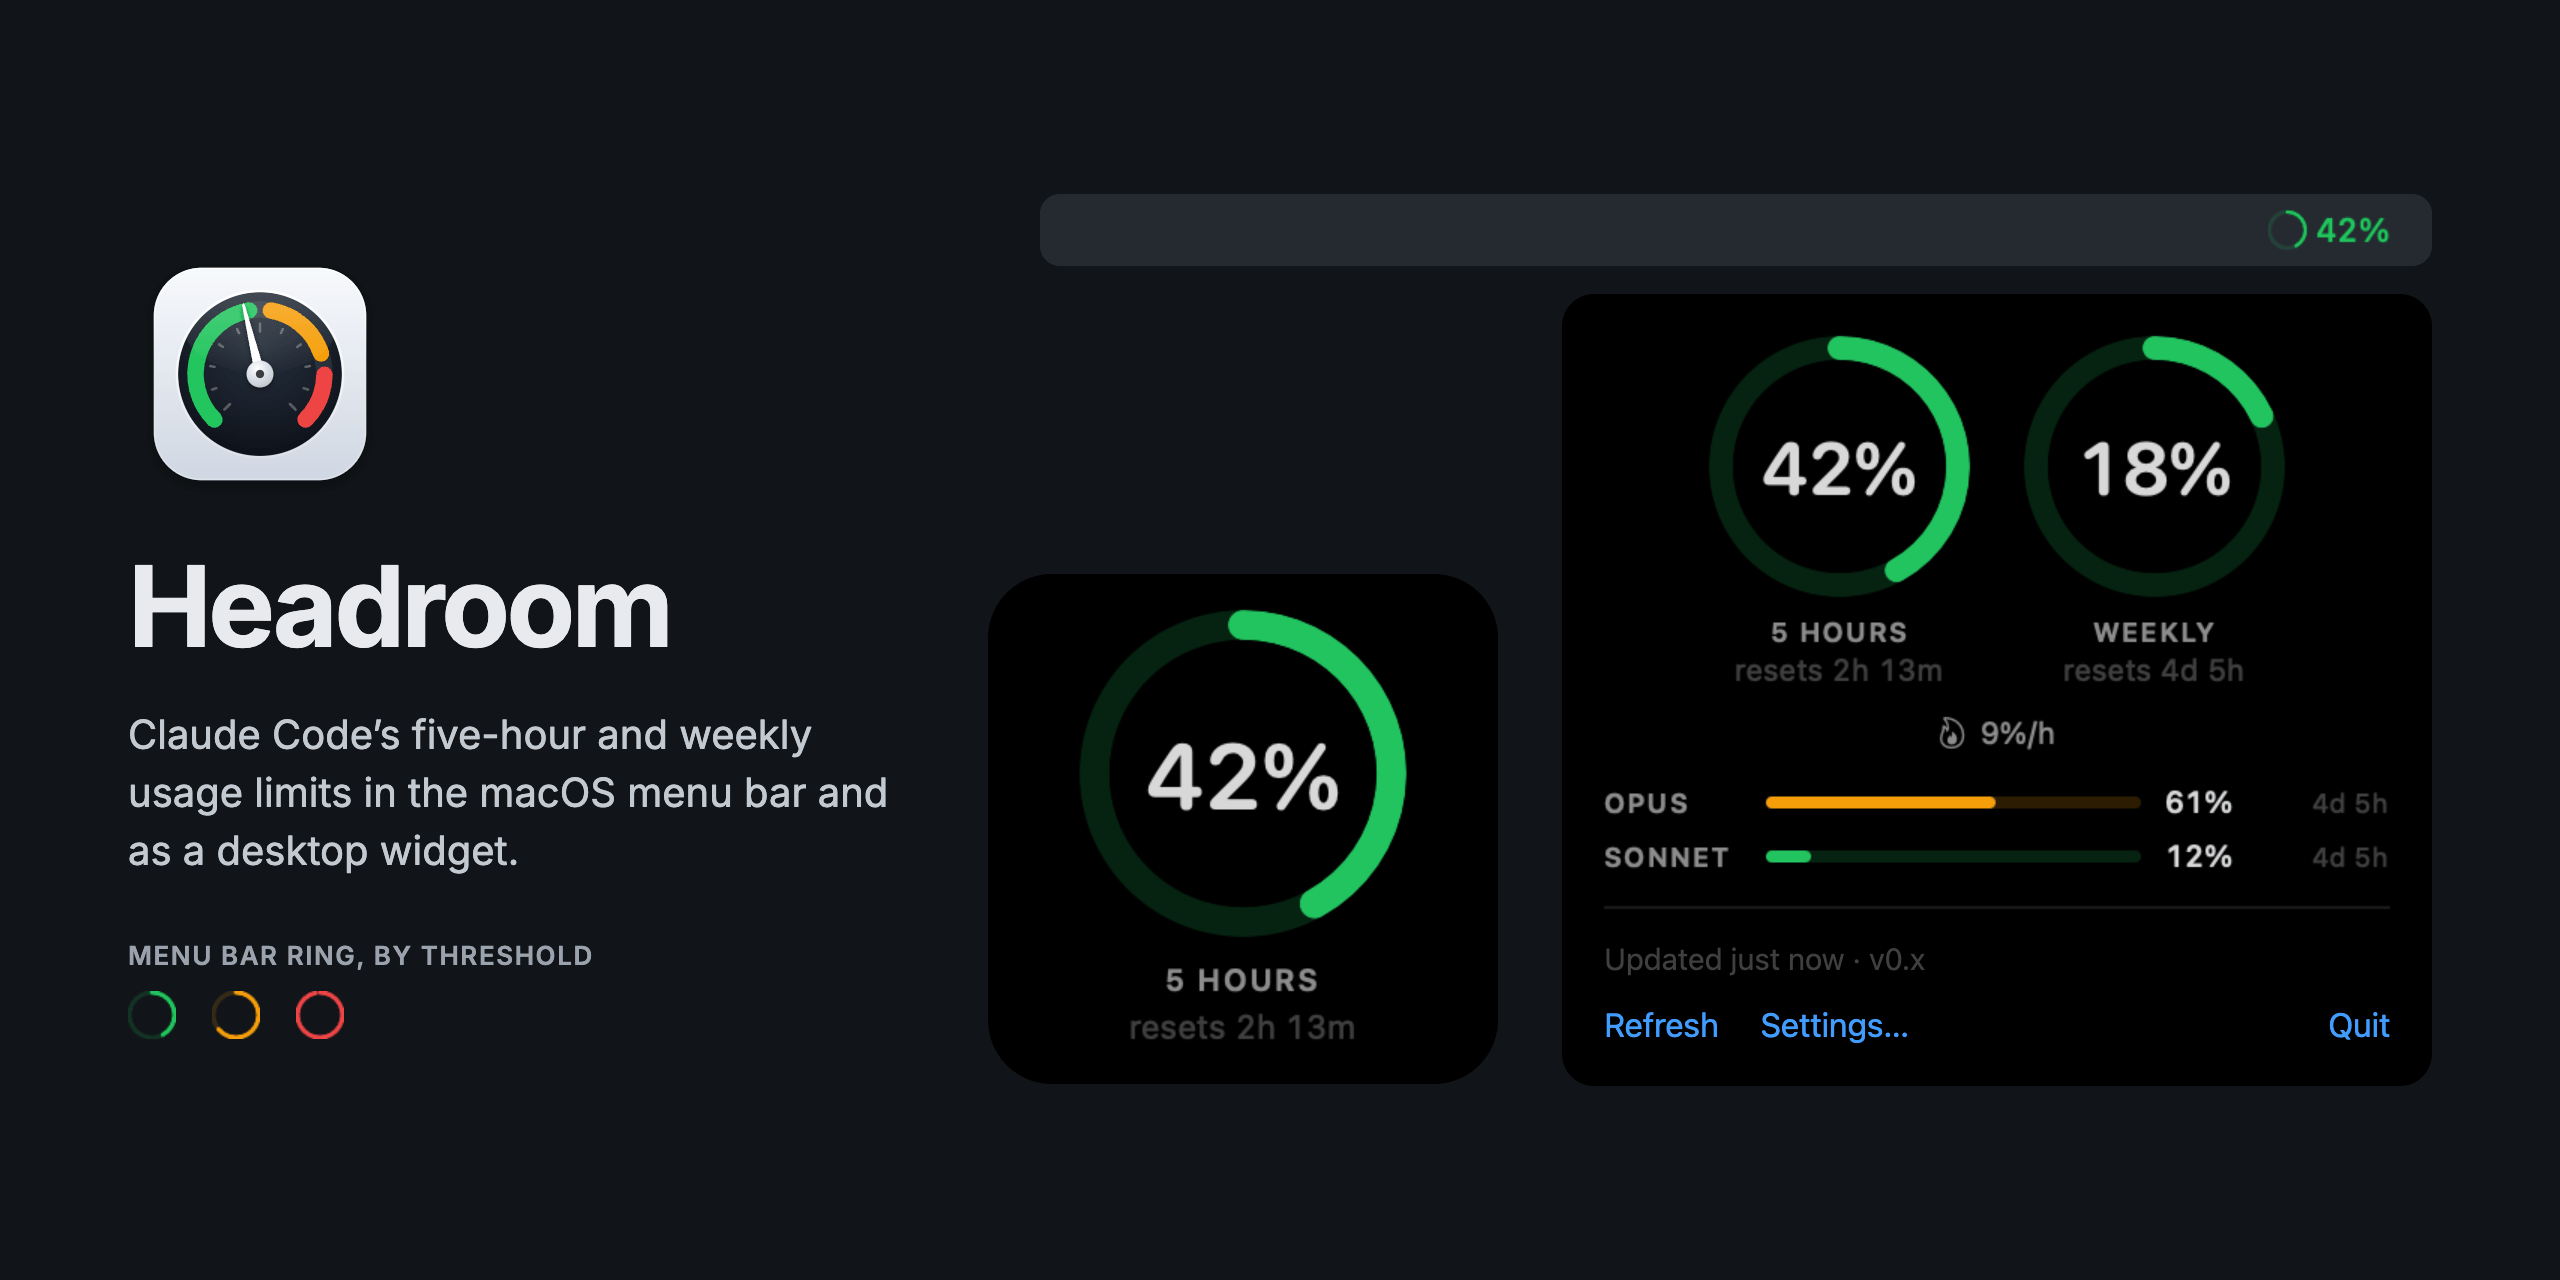
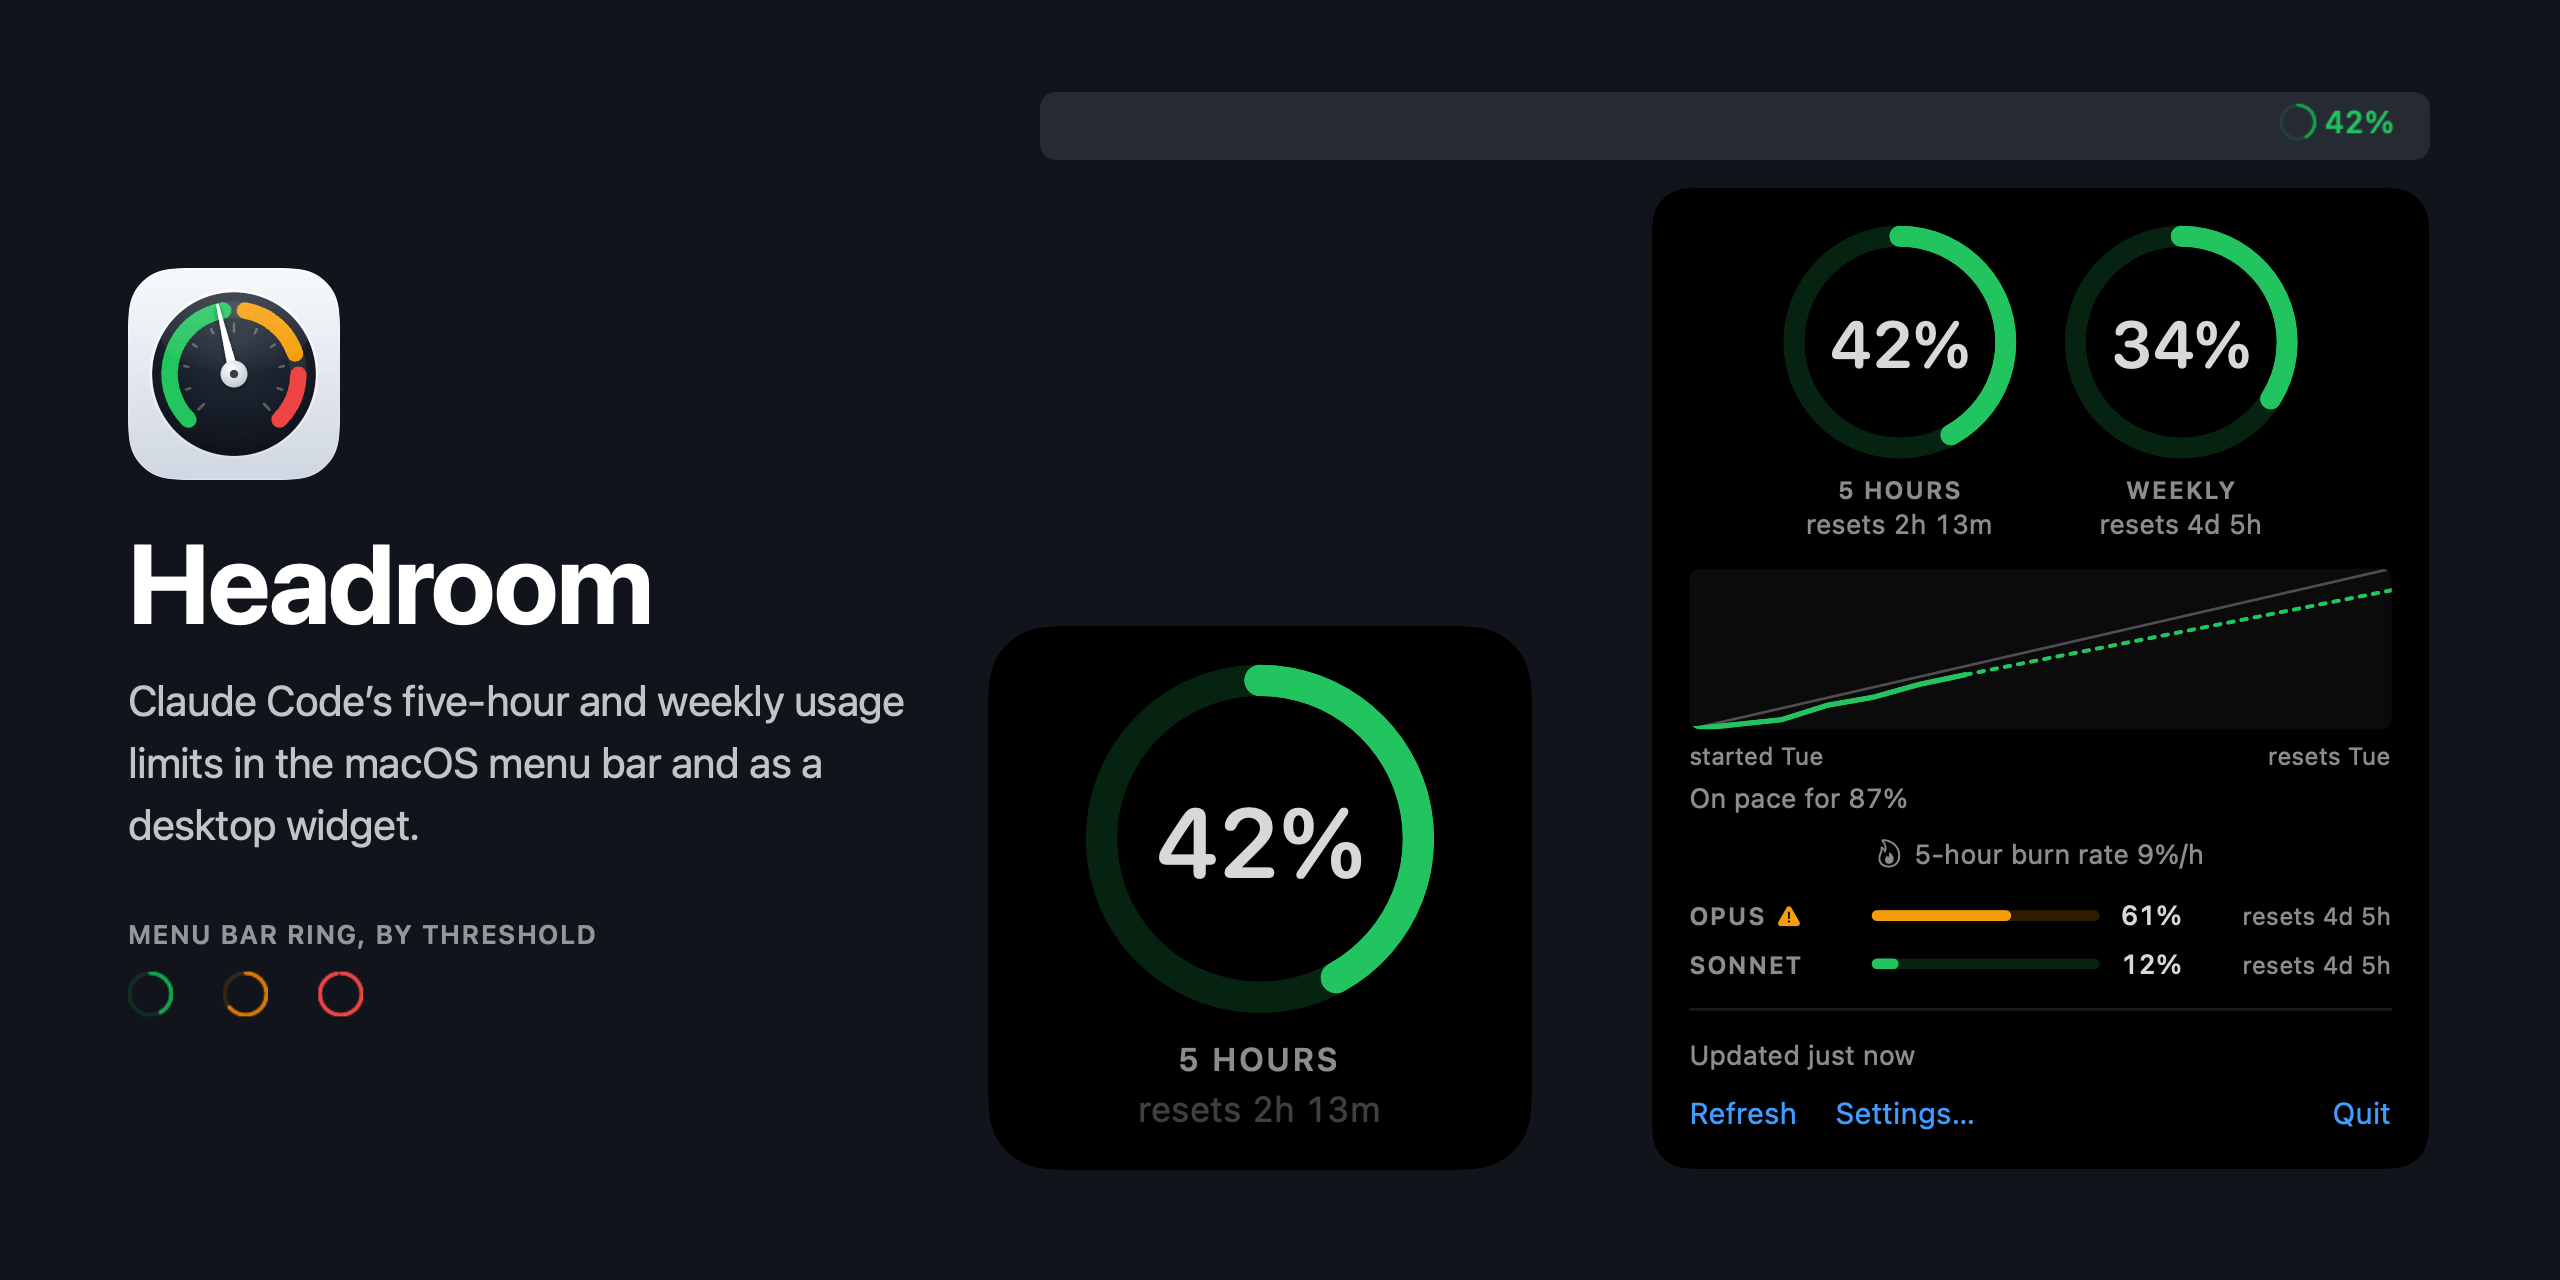
docs: show the weekly trend graph in the README screenshot (#24)

diff --git a/README.md b/README.md
@@ -8,7 +8,7 @@ Originally based on
 by Saeed Kolivand, since cut down to the limits alone. It has no updater,
 never writes Claude Code's credentials, and does not read your transcripts.
 
-![Headroom: its icon and tagline, the menu bar ring in its three threshold colours, a small widget, and the popover showing the five-hour and weekly limits](docs/screenshot.png)
+![Headroom: its icon and tagline, the menu bar ring in its three threshold colours, a small widget, and the popover showing the five-hour and weekly limits with the weekly trend graph](docs/screenshot.png)
 
 ## Build and install
 
